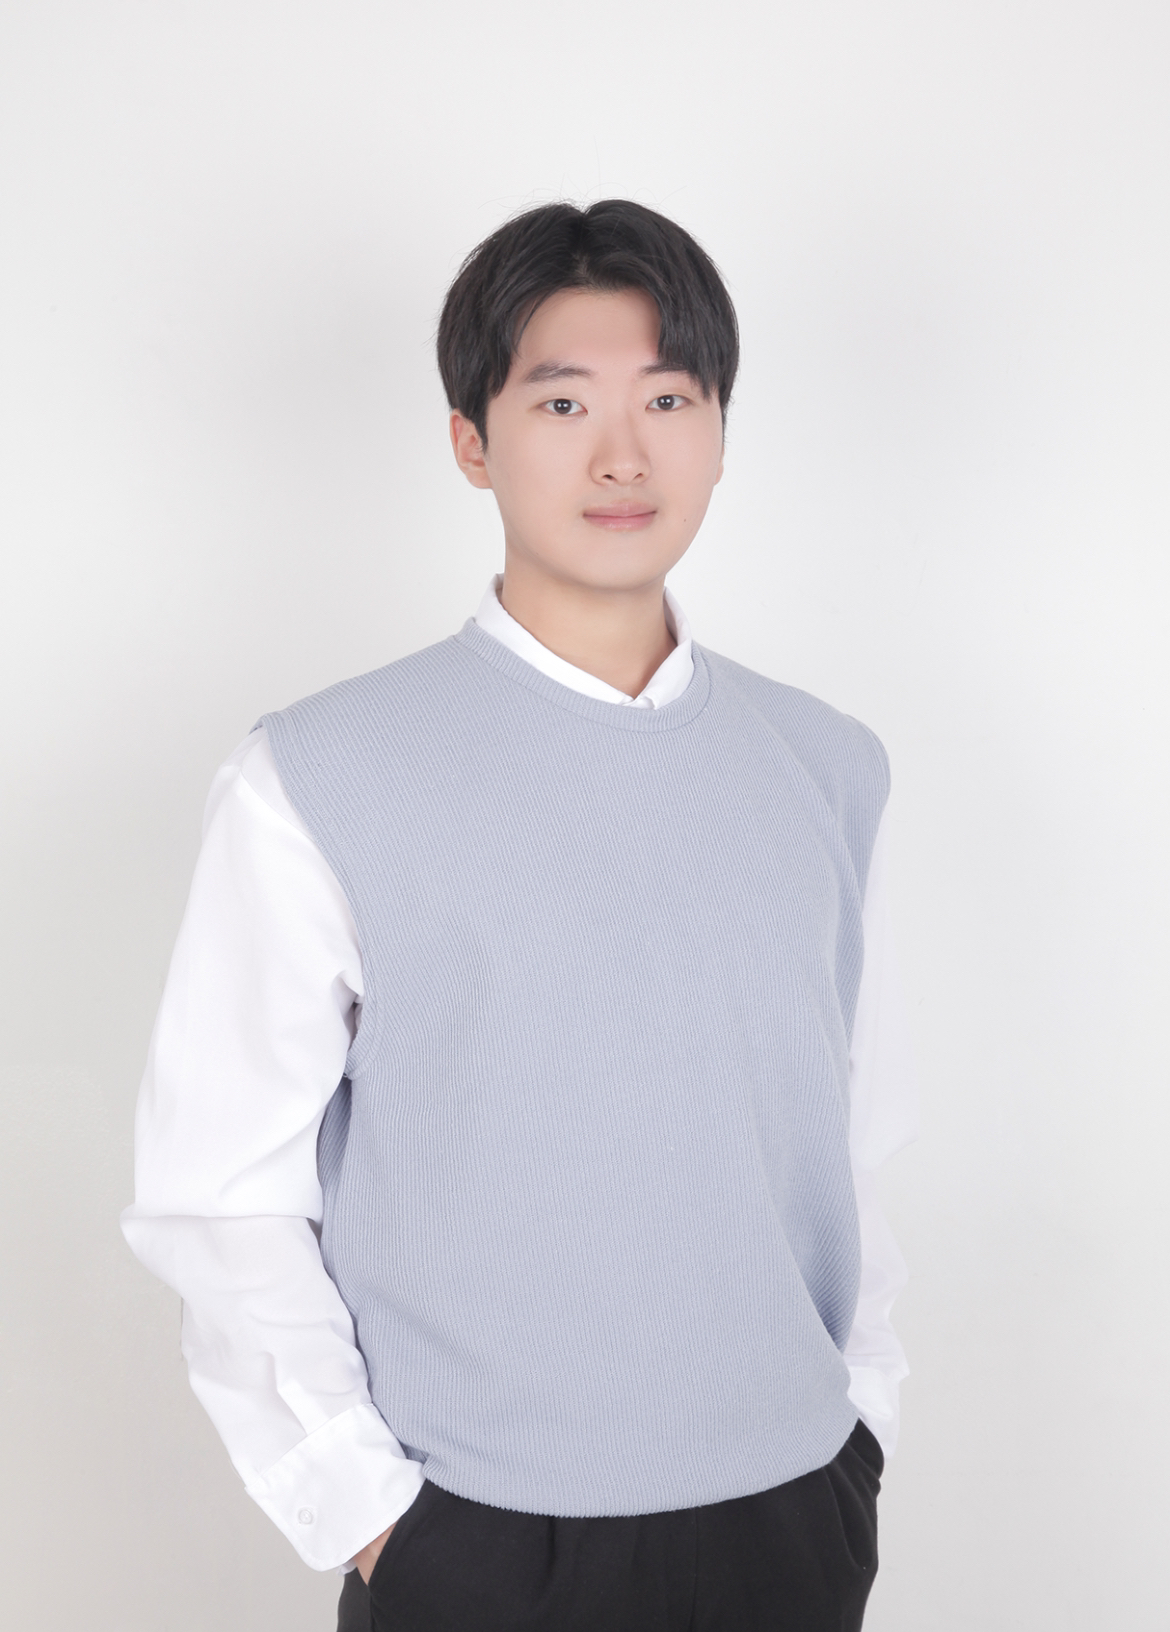
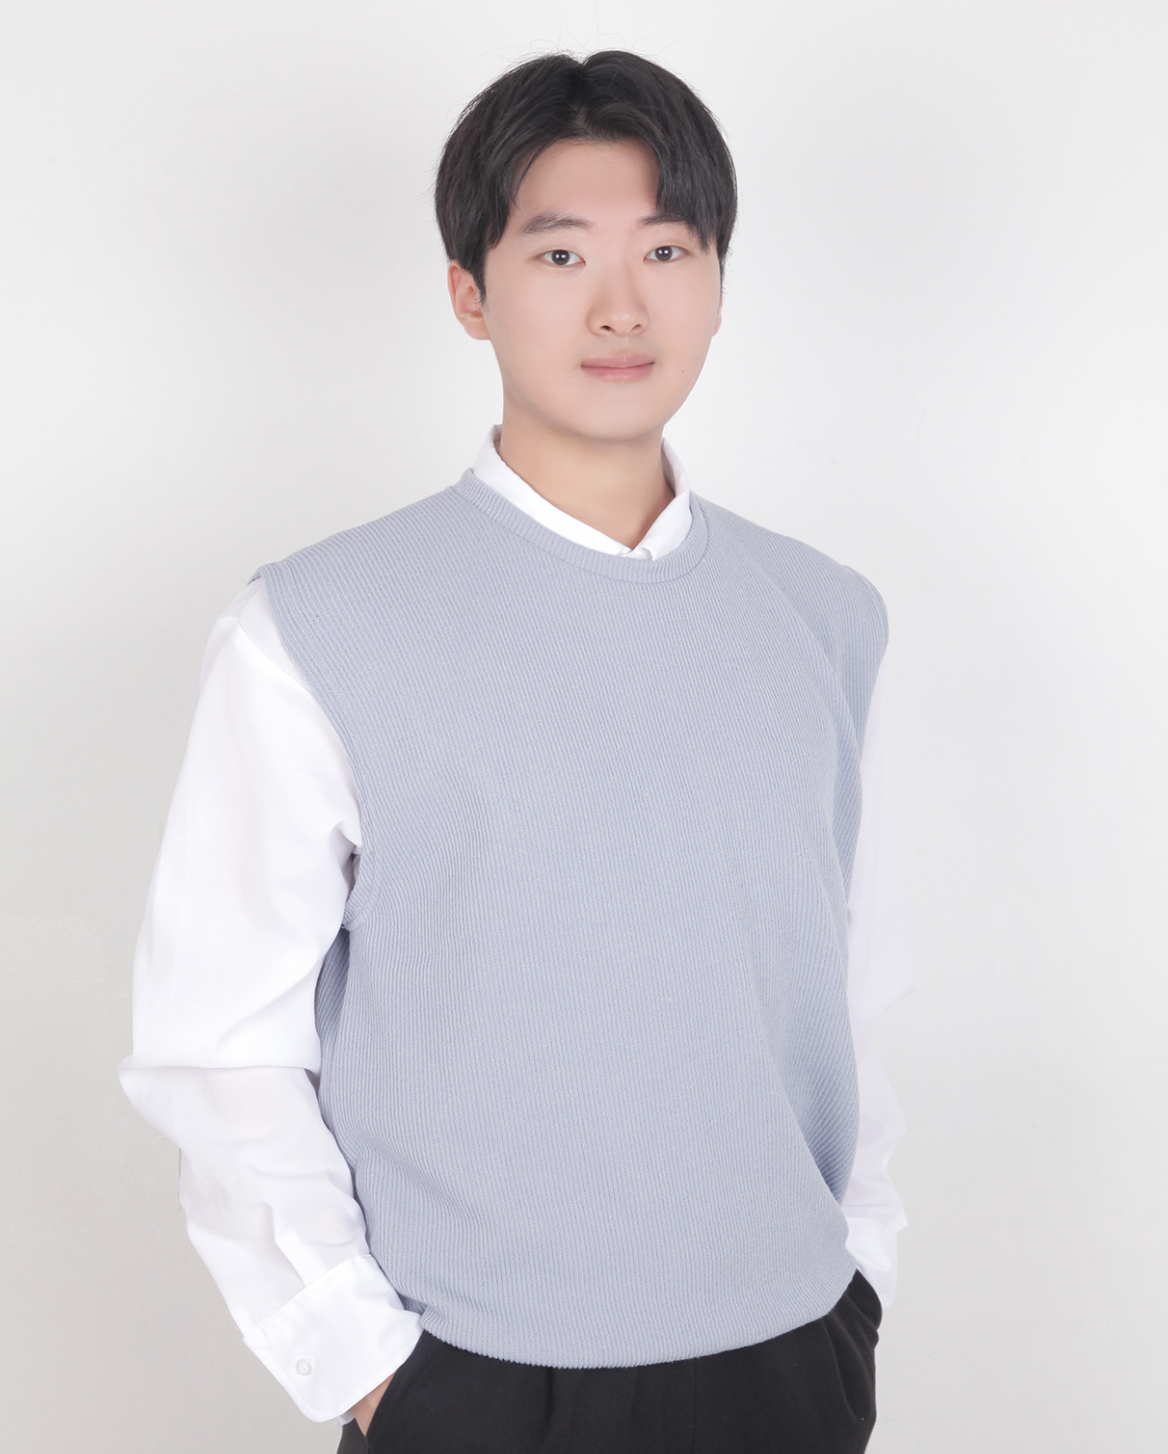
initial project

diff --git a/index.html b/index.html
@@ -39,11 +39,8 @@
 				<ul class="navbar-nav nav ml-auto">
 					<li class="nav-item"><a href="#home-section" class="nav-link"><span>Home</span></a></li>
 					<li class="nav-item"><a href="#about-section" class="nav-link"><span>About</span></a></li>
-					<li class="nav-item"><a href="#education-section" class="nav-link"><span>Education</span></a></li>
+					<li class="nav-item"><a href="#education-section" class="nav-link"><span>Experience</span></a></li>
 					<li class="nav-item"><a href="#projects-section" class="nav-link"><span>Projects</span></a></li>
-					<li class="nav-item"><a href="#side-projects-section" class="nav-link"><span>Side
-								Projects</span></a>
-					</li>
 					<li class="nav-item"><a href="#blog-section" class="nav-link"><span>My Blog</span></a></li>
 					<li class="nav-item"><a href="#contact-section" class="nav-link"><span>Contact</span></a></li>
 				</ul>
@@ -60,7 +57,7 @@
 						<h1>김 재 현</h1>
 						<h2>I'm a
 							<span class="txt-rotate" data-period="500"
-								data-rotate='[  "프론트엔드 개발자", "", ""]'></span>
+								data-rotate='[  "프론트엔드 개발자", "친절한 개발자", "분위기 메이커"]'></span>
 						</h2>
 					</div>
 				</div>
@@ -81,7 +78,7 @@
 					<div class="img-about img d-flex align-items-stretch">
 						<div class="overlay"></div>
 						<div class="img d-flex align-self-stretch align-items-center"
-							style="background-image:url(images/jaehyeon1.jpeg);">
+							style="background-image:url(images/jaehyeon.jpeg);">
 						</div>
 					</div>
 				</div>
@@ -111,7 +108,7 @@
 					<nav id="navi">
 						<ul>
 							<li><a href="#page-1">Education</a></li>
-							<li><a href="#page-2">Experience</a></li>
+							<li><a href="#page-2">Work</a></li>
 							<li><a href="#page-3">Skills</a></li>
 							<li><a href="#page-4">Projects</a></li>
 						</ul>
@@ -125,11 +122,10 @@
 								<span class="flaticon-ideas"></span>
 							</div>
 							<div class="text pl-3">
-								<span class="date">2010-2015</span>
-								<h2>컴퓨터 공학 & 전자 공학 복수 전공</h2>
-								<span class="position">Handong Global Univercity</span>
-								<p>전산 동아리 활동과 기숙사 생활을 통해, 함께 일하는 밥을 배웠습니다. Computer Science 기초 지식을 4년간 탄탄히 쌓아 빠르고 올바른
-									방향으로 성장할 수 있는 개발자가 되었습니다. </p>
+								<span class="date">2022. 01 - 2022. 04</span>
+								<h2>코드캠프 수료</h2>
+								<span class="position">Software Engineer | 120% Front-end Course 5기</span>
+								<p>- Next.js & GraphQL 활용 프론트엔드 학습 <br/>- git, github를 사용한 협업 진행 <br/>- 페어 시스템, 알고리즘 문제, 코드리뷰 진행 <br/>- 1번의 팀 프로젝트 진행 </p>
 							</div>
 						</div>
 						<div class="resume-wrap d-flex ftco-animate">
@@ -137,93 +133,34 @@
 								<span class="flaticon-ideas"></span>
 							</div>
 							<div class="text pl-3">
-								<span class="date">2014-2015</span>
-								<h2>Computer Processing Systems/Computer Software</h2>
-								<span class="position">Cambridge University</span>
-								<p>A small river named Duden flows by their place and supplies it with the necessary
-									regelialia. It is a paradisematic country, in which roasted parts of sentences fly
-									into your mouth.</p>
-							</div>
-						</div>
-						<div class="resume-wrap d-flex ftco-animate">
-							<div class="icon d-flex align-items-center justify-content-center">
-								<span class="flaticon-ideas"></span>
-							</div>
-							<div class="text pl-3">
-								<span class="date">2014-2015</span>
-								<h2>Diploma in Computer</h2>
-								<span class="position">Cambridge University</span>
-								<p>A small river named Duden flows by their place and supplies it with the necessary
-									regelialia. It is a paradisematic country, in which roasted parts of sentences fly
-									into your mouth.</p>
+								<span class="date">2021. 06 - 2021. 12</span>
+								<h2>엘리스 수료</h2>
+								<span class="position">엘리스 AI 서비스 기획 개발 트랙 2기</span>
+								<p>- React 기반의 프론트엔드 과정 학습 <br/>- 그 외, 백엔드, 데이터분석과 AI를 학습<br/>- 2번의 팀 프로젝트를 진행</p>
 							</div>
 						</div>
 					</div>
 
 					<div id="page-2" class="page two">
-						<h2 class="heading">Work Experience</h2>
+						<h2 class="heading">Work</h2>
 						<div class="resume-wrap d-flex ftco-animate">
 							<div class="icon d-flex align-items-center justify-content-center">
 								<span class="flaticon-ideas"></span>
 							</div>
 							<div class="text pl-3">
-								<span class="date">2019.09-2021.04(1년 8개월)</span>
-								<h2>Full Stack Developer</h2>
-								<span class="position">주식회사 더라피스</span>
-								<p>동남아 스파 예약 서비스 Web 개발, 온라인 요가 수업 예약/결제 서비스 개발<br /></p>
+								<span class="date">2018. 04 - 2019. 05(1년 1개월)</span>
+								<h2>(주)퓨처로봇</h2>
+								<span class="position">HW & SW 유지 보수 및 현장 지원</span><br/>
 								<b class="text-primary">기술 스택</b>
-								<p>ReactJS, Next.js,Typescript, Styled-components, AWS S3 static hosting</p>
+								<p>HTML, CSS, JavaScript</p>
 								<b class="text-primary">주요 업무 </b>
 								<div>
-									<div> - React + typescript 기반 웹 서비스 개발/운영</div>
-									<div> - 디자인 시스템 도입을 위한 UI 컴포넌트 관리용 storybook 도입</div>
-									<div> - SEO를 위한 Next.js 도입</div>
-									<div> - Serverless 환경을 위한 s3 기반의 static hosting 구축</div>
+									<div> - 안내 로봇 HW 유지 보수 진행</div>
+									<div> - 로봇 컨텐츠 현장 수정 및 유지 보수 진행</div>
+									<div> - 안내 로봇 현장 지원 및 관리자 교육</div>
+									<div> - 사용자 만족도 분석 진행</div>
 								</div>
 								</p>
-							</div>
-
-						</div>
-						<div class="resume-wrap d-flex ftco-animate">
-							<div class="icon d-flex align-items-center justify-content-center">
-								<span class="flaticon-ideas"></span>
-							</div>
-							<div class="text pl-3">
-								<span class="date">2014-2015</span>
-								<h2>Web Designer</h2>
-								<span class="position">Cambridge University</span>
-								<p>A small river named Duden flows by their place and supplies it with the necessary
-									regelialia. It is a paradisematic country, in which roasted parts of sentences
-									fly
-									into your mouth.</p>
-							</div>
-						</div>
-						<div class="resume-wrap d-flex ftco-animate">
-							<div class="icon d-flex align-items-center justify-content-center">
-								<span class="flaticon-ideas"></span>
-							</div>
-							<div class="text pl-3">
-								<span class="date">2014-2015</span>
-								<h2>Web Marketing</h2>
-								<span class="position">Cambridge University</span>
-								<p>A small river named Duden flows by their place and supplies it with the necessary
-									regelialia. It is a paradisematic country, in which roasted parts of sentences
-									fly
-									into your mouth.</p>
-							</div>
-						</div>
-						<div class="resume-wrap d-flex ftco-animate">
-							<div class="icon d-flex align-items-center justify-content-center">
-								<span class="flaticon-ideas"></span>
-							</div>
-							<div class="text pl-3">
-								<span class="date">2014-2015</span>
-								<h2>Art &amp; Creative Director</h2>
-								<span class="position">Side Tech</span>
-								<p>A small river named Duden flows by their place and supplies it with the necessary
-									regelialia. It is a paradisematic country, in which roasted parts of sentences
-									fly
-									into your mouth.</p>
 							</div>
 						</div>
 					</div>
@@ -477,81 +414,6 @@
 		</div>
 	</section>
 
-
-	<section class="ftco-section ftco-project">
-		<div class="container-fluid px-md-0">
-			<div class="row no-gutters justify-content-center pb-5">
-				<div class="col-md-12 heading-section text-center ftco-animate">
-					<h1 class="big big-2">Projects</h1>
-					<h2 id="side-projects-section" class="mb-4">Side Projects</h2>
-					<p>꾸준히 사이드 프로젝트를 진행하며, 다양한 분야의 기술 스택을 경험해왔습니다.</p>
-				</div>
-			</div>
-			<div class="row no-gutters">
-				<div class="col-md-4">
-					<div class="project img ftco-animate d-flex justify-content-center align-items-center"
-						style="background-image: url(images/side-project-1.png);">
-						<div class="overlay"></div>
-						<div class="text text-center p-4">
-							<h3><a target="_blank" href="https://qpi.kr/"> QPI - 소개팅 서비스 소개 페이지 개발</a></h3>
-							<span>UI/UX 디자인부터 웹 호스팅까지 전체 영역을 담당하였습니다.</span>
-						</div>
-					</div>
-				</div>
-				<div class="col-md-4">
-					<div class="project img ftco-animate d-flex justify-content-center align-items-center"
-						style="background-image: url(images/work-2.jpg);">
-						<div class="overlay"></div>
-						<div class="text text-center p-4">
-							<h3><a href="#">Branding &amp; Illustration Design</a></h3>
-							<span>Web Design</span>
-						</div>
-					</div>
-				</div>
-
-				<div class="col-md-4">
-					<div class="project img ftco-animate d-flex justify-content-center align-items-center"
-						style="background-image: url(images/work-3.jpg);">
-						<div class="overlay"></div>
-						<div class="text text-center p-4">
-							<h3><a href="#">Branding &amp; Illustration Design</a></h3>
-							<span>Web Design</span>
-						</div>
-					</div>
-				</div>
-				<div class="col-md-4">
-					<div class="project img ftco-animate d-flex justify-content-center align-items-center"
-						style="background-image: url(images/work-4.jpg);">
-						<div class="overlay"></div>
-						<div class="text text-center p-4">
-							<h3><a href="#">Branding &amp; Illustration Design</a></h3>
-							<span>Web Design</span>
-						</div>
-					</div>
-				</div>
-				<div class="col-md-4">
-					<div class="project img ftco-animate d-flex justify-content-center align-items-center"
-						style="background-image: url(images/work-5.jpg);">
-						<div class="overlay"></div>
-						<div class="text text-center p-4">
-							<h3><a href="#">Branding &amp; Illustration Design</a></h3>
-							<span>Web Design</span>
-						</div>
-					</div>
-				</div>
-				<div class="col-md-4">
-					<div class="project img ftco-animate d-flex justify-content-center align-items-center"
-						style="background-image: url(images/work-6.jpg);">
-						<div class="overlay"></div>
-						<div class="text text-center p-4">
-							<h3><a href="#">Branding &amp; Illustration Design</a></h3>
-							<span>Web Design</span>
-						</div>
-					</div>
-				</div>
-			</div>
-		</div>
-	</section>
 
 	<section class="ftco-section" id="blog-section">
 		<div class="container">

diff --git a/css/style.css b/css/style.css
@@ -8392,7 +8392,8 @@ h1, h2, h3, h4, h5,
   height: 100%;
   position: inherit;
   background-size: cover;
-  background-repeat: no-repeat; }
+  background-repeat: no-repeat;
+  margin-bottom: 7em; }
   .hero-wrap .overlay {
     position: absolute;
     top: 0;
@@ -9214,7 +9215,7 @@ textarea.form-control {
 .img,
 .blog-img,
 .user-img {
-  background-size: cover;
+  background-size: auto 100%;
   background-repeat: no-repeat;
   background-position: center center; }
 
